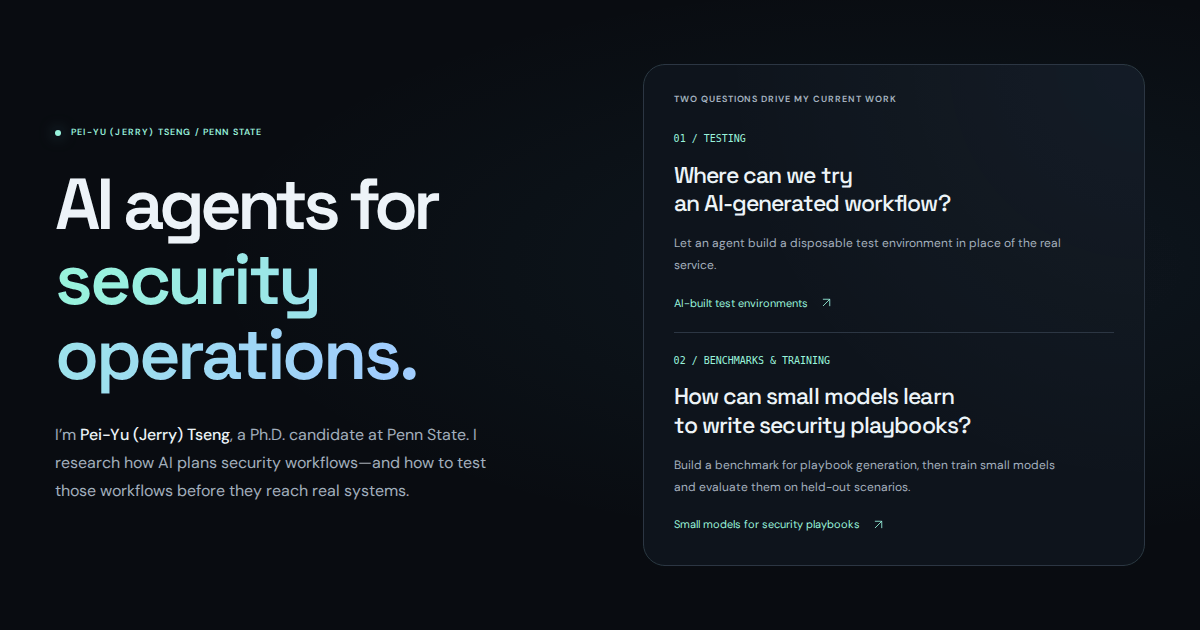
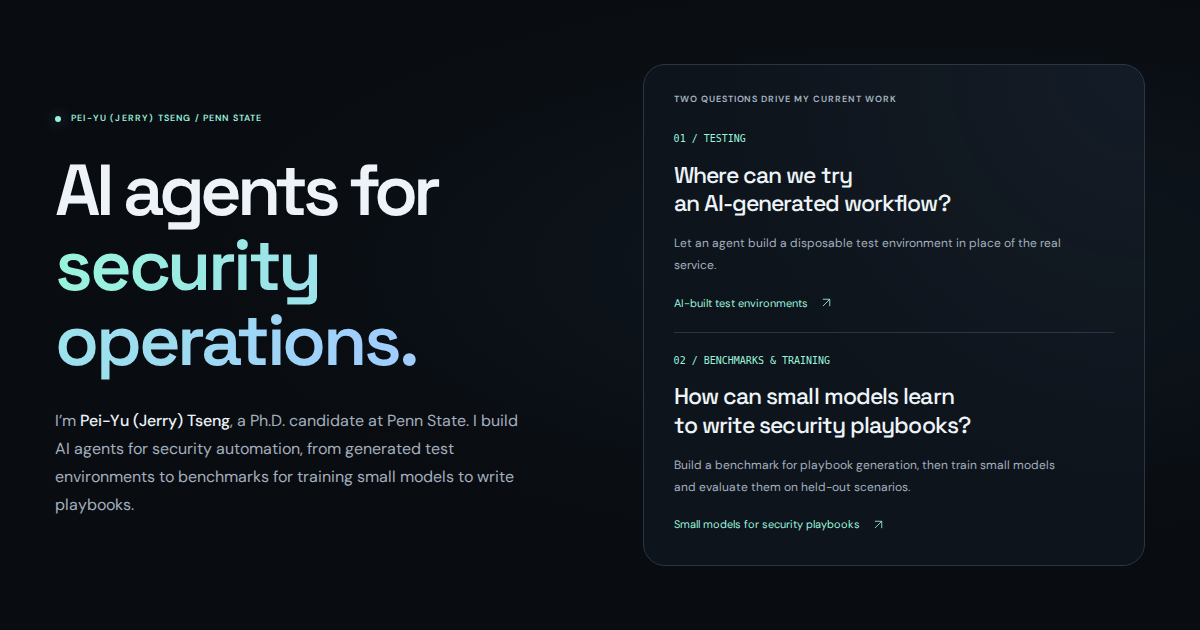
Align About, CV, and site introductions with current research

Changed region(s): [[0.0308, 0.2413, 0.37, 0.6333], [0.0308, 0.6635, 0.4317, 0.8143], [0.0308, 0.181, 0.2158, 0.2111]]

diff --git a/site/src/data/profile.ts b/site/src/data/profile.ts
@@ -7,8 +7,9 @@ export const profile = {
   title: 'Ph.D. candidate · Penn State',
   email: 'jerry950909@gmail.com',
   location: 'State College, Pennsylvania',
-  description: 'Pei-Yu (Jerry) Tseng researches LLM agents, security automation, and the evaluation of agent behavior at Penn State.',
-  about: 'I’m a Ph.D. candidate in Informatics at Penn State, advised by Professor Peng Liu. I research LLM-based agents for security operations: how they turn knowledge into action, work with existing tools, and demonstrate that their actions achieve the intended outcome.',
+  description: 'Pei-Yu (Jerry) Tseng, Penn State Ph.D. candidate, researches AI-built test environments and benchmarks for training small models to generate security playbooks.',
+  about: 'I’m a Ph.D. candidate in Informatics at Penn State, advised by Professor Peng Liu. I develop AI agents that generate disposable test environments for security workflows. I am also building a benchmark for playbook generation, with the goal of training small language models to write those workflows.',
+  background: 'Before Penn State, I worked at Academia Sinica on threat intelligence, graph-based attack detection, and system telemetry. Earlier roles in penetration testing and network administration shape how I approach the tools and infrastructure that security automation needs to work with.',
   links: [
     { label: 'Google Scholar', url: 'https://scholar.google.com/citations?user=GwHvncIAAAAJ' },
     { label: 'GitHub', url: 'https://github.com/PAIYUTSUTW' },
@@ -17,11 +18,30 @@ export const profile = {
   ],
 };
 
-export const projects = [
+interface ResearchProject {
+  slug: string;
+  number: string;
+  featured: boolean;
+  kind: string;
+  category: string;
+  title: string;
+  subtitle: string;
+  description: string;
+  cvSummary?: string;
+  tags: string[];
+  visual: string;
+  question: string;
+  body: string[];
+  approach: string[];
+  related: string[];
+}
+
+export const projects: ResearchProject[] = [
   {
     slug: 'stateful-evaluation', number: '01', featured: true, kind: 'Current research', category: 'Agents & evaluation',
     title: 'AI-built test environments', subtitle: 'Disposable test environments for security automation',
     description: 'Agents that build test versions of external services, so AI-generated security workflows can be tried without connecting to the real service.',
+    cvSummary: 'Developing agents that read service connector code and documentation to generate resettable test environments. The workflow retains the existing SOAR platform and connector while using a generated external service.',
     tags: ['Environment generation', 'Security automation'], visual: 'environment',
     question: 'Where can teams test an AI-generated security workflow before it reaches real systems?',
     body: [
@@ -36,6 +56,7 @@ export const projects = [
     slug: 'soar-planning', number: '02', featured: true, kind: 'Current research', category: 'Agents & evaluation',
     title: 'Small models for security playbooks', subtitle: 'Benchmarks and reinforcement learning for playbook generation',
     description: 'Building a benchmark for security playbook generation, with the goal of training small language models to write workflows that meet task requirements and policies.',
+    cvSummary: 'Constructing source-grounded scenarios and behavioral scoring for playbook generation from natural-language goals and retrievable documentation. Benchmark development is underway; small-model training, including reinforcement learning, is the next research objective.',
     tags: ['Benchmark development', 'Small language models', 'Reinforcement learning'], visual: 'benchmark',
     question: 'What does it mean for a model to write a correct playbook?',
     body: [
@@ -49,8 +70,8 @@ export const projects = [
   },
   {
     slug: 'workflow-generation', number: '03', featured: false, kind: 'Current research', category: 'Agents & evaluation',
-    title: 'Generating security playbooks', subtitle: 'LLM-based security workflow generation',
-    description: 'Turning high-level security objectives into SOAR workflows, with retrieval, execution feedback, and behavioral review.',
+    title: 'Agent-based playbook generation', subtitle: 'Retrieval and testing for SOAR workflow generation',
+    description: 'An agent system that uses retrieved context and test feedback to turn security objectives into SOAR workflows.',
     tags: ['LLM agents', 'RAG', 'Workflow generation'], visual: 'workflow',
     question: 'Can an agent preserve the intent behind a security workflow?',
     body: [
@@ -109,6 +130,8 @@ export const projects = [
   },
 ];
 
+export const currentResearch = projects.filter(project => project.featured && project.kind.startsWith('Current research'));
+
 export const publications = [
   {
     id: 'jove-cti', year: '2026', venue: 'JoVE', type: 'Journal',
@@ -155,7 +178,7 @@ export const publications = [
 ];
 
 export const experience = [
-  { date: '2023 — Present', institution: 'Penn State University', role: 'Research Assistant', location: 'State College, PA', description: 'LLM agents for threat intelligence, security workflow generation, and stateful evaluation. Research advised by Professor Peng Liu.' },
+  { date: '2023 — Present', institution: 'Penn State University', role: 'Research Assistant', location: 'State College, PA', description: 'Research on LLM agents for threat intelligence and security automation, including generated test environments and benchmarks for playbook generation. Advised by Professor Peng Liu.' },
   { date: '2021 — 2023', institution: 'Academia Sinica', role: 'Research Assistant', location: 'Taipei, Taiwan', description: 'Graph-based APT detection, threat knowledge bases, kernel audit logs, and representation learning for honeypot traffic.' },
   { date: '2020', institution: 'Chiayi County Government', role: 'Penetration Tester', location: 'Taiwan', description: 'Security assessments of government web applications and IoT infrastructure, with remediation guidance.' },
   { date: '2019 — 2020', institution: 'National Chung Cheng University', role: 'Network Administrator', location: 'Taiwan', description: 'Network infrastructure, firewalls, VPN, DNS, and web hosting for the College of Engineering.' },
@@ -168,7 +191,7 @@ export const education = [
 ];
 
 export const skills = [
-  { category: 'AI & evaluation', items: 'LLM agents, retrieval-augmented generation, multi-agent systems, reinforcement learning, graph learning' },
+  { category: 'AI & evaluation', items: 'LLM agents, retrieval-augmented generation, benchmark design, supervised fine-tuning, reinforcement learning, multi-agent systems, graph learning' },
   { category: 'Security', items: 'SOAR, SIEM, Splunk, ELK, threat intelligence, threat hunting, MITRE ATT&CK, detection engineering' },
   { category: 'Engineering', items: 'Python, PyTorch, TensorFlow, Bash, regular expressions, Linux, Windows, Docker, graph databases' },
 ];

diff --git a/docs/CONTENT_SOURCES.md b/docs/CONTENT_SOURCES.md
@@ -123,3 +123,14 @@
 - The printable CV is generated from the same content as the website. The
   supplied PDF remains a source document rather than an automatically published
   download. Its phone number is not included in website content.
+- The cross-page review aligns the homepage, About, CV, Penn State experience,
+  and search/share descriptions with the two current research directions.
+  About connects the current work to the confirmed Academia Sinica, penetration
+  testing, and network administration background. The CV names the two projects
+  with method-focused summaries and keeps small-model generation training as a
+  future objective. Supervised fine-tuning in the skills list refers to the
+  documented earlier SFT work, not completed generator training.
+- The separate systems project is titled "Agent-based playbook generation" to
+  distinguish its retrieval and test-feedback approach from the benchmark and
+  small-model research. Publication records and statuses retain their verified
+  facts; the Publications heading and page description simply state the content.

diff --git a/README.md b/README.md
@@ -25,7 +25,8 @@ npm run preview
 ## Edit content
 
 - `site/src/data/profile.ts`: biography, experience, education, research projects,
-  publication metadata, and profile links.
+  publication metadata, and profile links. The homepage, Research index, and CV
+  share the `currentResearch` selection; each highlighted project has a CV summary.
 - `site/src/pages/`: homepage, research index, publication list, printable CV,
   and generated project pages.
 - `site/src/styles/global.css`: colors, typography, responsive and print styles.
